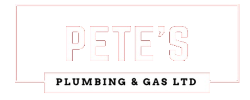
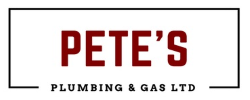
Changed navbar and created home page

diff --git a/index.html b/index.html
@@ -4,40 +4,58 @@
 <meta charset="UTF-8">
 <meta name="viewport" content="width=device-width, initial-scale=1.0">
 <meta http-equiv="X-UA-Compatible" content="ie=edge">
-<link rel="stylesheet" href="https://bootswatch.com/4/simplex/bootstrap.min.css">
+<link rel="stylesheet" href="https://bootswatch.com/4/journal/bootstrap.min.css">
 <link rel="stylesheet" href="https://cdnjs.cloudflare.com/ajax/libs/font-awesome/5.11.2/css/all.min.css">
 <link rel="stylesheet" href="assets/css/style.css">
 <title>Pete's plumbing & gas Ltd</title>
 </head>
 <body>
 <!---------Navbar--------->
-<nav class="navbar navbar-expand-lg navbar-dark bg-primary">
-        <a class="navbar-brand" href="#"><img src="assets/images/small.png" class="logo" alt="logo"></a>
-        <button class="navbar-toggler" type="button" data-toggle="collapse" data-target="#navbarColor01" aria-controls="navbarColor01" aria-expanded="false" aria-label="Toggle navigation">
-          <span class="navbar-toggler-icon"></span>
-        </button>
-      
-        <div class="collapse navbar-collapse" id="navbarColor01">
-          <ul class="navbar-nav ml-auto">
-            <li class="nav-item active">
-              <a class="nav-link" href="#">Home <span class="sr-only">(current)</span></a>
-            </li>
-            <li class="nav-item">
-              <a class="nav-link" href="#">Services</a>
-            </li>
-            <li class="nav-item">
-              <a class="nav-link" href="#">Why us?</a>
-            </li>
-            <li class="nav-item">
-              <a class="nav-link" href="#">Emergency</a>
-            </li>
-            <li class="nav-item">
-                    <a class="nav-link" href="#">Contact</a>
-            </li>
-          </ul>
-        </div>
-      </nav>
+<nav class="navbar navbar-expand-lg navbar-light bg-light">
+  <a class="navbar-brand" href="#"><img src="assets/images/small.png" class="logo" alt="logo"></a>
+  <button class="navbar-toggler" type="button" data-toggle="collapse" data-target="#navbarColor03" aria-controls="navbarColor03" aria-expanded="false" aria-label="Toggle navigation">
+    <span class="navbar-toggler-icon"></span>
+  </button>
+
+  <div class="collapse navbar-collapse" id="navbarColor03">
+    <ul class="navbar-nav ml-auto">
+      <li class="nav-item active nav-item-cold">
+        <a class="nav-link" href="#home">Home</a>
+      </li>
+      <li class="nav-item nav-item-hot">
+        <a class="nav-link" href="#">Services</a>
+      </li>
+      <li class="nav-item nav-item-cold">
+        <a class="nav-link" href="#">About</a>
+      </li>
+      <li class="nav-item nav-item-hot">
+        <a class="nav-link" href="#">Emergency</a>
+      </li>
+      <li class="nav-item nav-item-cold">
+        <a class="nav-link" href="#">Contact</a>
+      </li>
+    </ul>
+
+  </div>
+</nav>
 <!---------End Navbar--------->
+<!---------Home Section--------->
+<section id="home" class="container-fluid home-container">
+  <div class="opaque-overlay">&nbsp;</div>
+  <div class="row">
+    <div class="col-12 jumbotron">
+      <h1 class="display-3">We do plumbing so you don't have to</h1>
+      <p class="lead"><span class="badge-primary">Reliable | Affordable | Available</span></p>
+    </div>
+    <div class="col-12 btn-group-column">
+        <div class="btn-group" role="group" aria-label="Action buttons">
+            <a href="#"> <button type="button" class="btn btn-info home-bottom-btn">Check our services</button></a>
+            <a href="#"><button type="button" class="btn btn-info home-bottom-btn">Book free inspection now</button></a>
+          </div>
+    </div>
+  </div>
+</section> 
+<!---------End Home Section--------->
 <script src="https://cdnjs.cloudflare.com/ajax/libs/jquery/3.4.1/jquery.slim.min.js"></script>
 <script src="https://cdnjs.cloudflare.com/ajax/libs/popper.js/1.15.0/umd/popper.min.js"></script>
 <script src="https://cdnjs.cloudflare.com/ajax/libs/twitter-bootstrap/4.3.1/js/bootstrap.min.js"></script>

diff --git a/assets/css/style.css b/assets/css/style.css
@@ -1,10 +1,7 @@
 /*------------Navbar------------------*/
 .nav-item {
+    text-transform: uppercase;
     padding-left: 10px;
-    transition: all 0.25s ease-in-out;
-    -moz-transition: all 0.25s ease-in-out;
-    -webkit-transition: all 0.25s ease-in-out;
-    -o-transition: all 0.25s ease-in-out;
 }
 
 @media (min-width: 992px) {
@@ -13,13 +10,71 @@
     }
 }
 
-.nav-item:hover {
-    background-color: #CB200C;
-    color: #fff;
-}
-
 @media (min-width: 992px) {
     .nav-item:hover {
         border-radius: 20%;
     }
+}
+
+.nav-item-cold:hover {
+    background-color: #369;
+}
+
+.nav-item-hot:hover {
+    background-color: #e53c37;
+}
+
+.navbar-nav .nav-item:hover .nav-link {
+    color: white;
+}
+
+/*------------Home Section------------------*/
+.home-container {
+    background: url("../images/tap.jpg") no-repeat bottom right fixed;
+    position: relative;
+    height: 100vh;
+    -webkit-background-size: cover;
+    -moz-background-size: cover;
+    -o-background-size: cover;
+    background-size: cover;
+    display: flex;
+    align-items: center;
+    justify-content: center;
+}
+.opaque-overlay {
+    position: absolute;
+    top: 0;
+    left: 0;
+    width: 100%;
+    height: 100%;
+    background-color: rgba(0, 0, 0, 0.6);
+}
+
+.jumbotron {
+    background-color: transparent;
+    text-align: center;
+}
+
+.jumbotron .display-3 {
+    font-weight: bolder;
+    color:#fff;
+    margin-bottom: 25px;
+}
+
+.lead {
+    font-weight: 700;
+    margin: 10px;
+}
+.badge-primary {
+    background-color: #e53c37;
+    padding: 2px 5px;
+}
+.btn-group-column {
+    text-align: center;
+    margin: 10px auto;
+}
+
+.home-bottom-btn {
+    padding: 5px 10px;
+    margin: auto 10px;
 }
